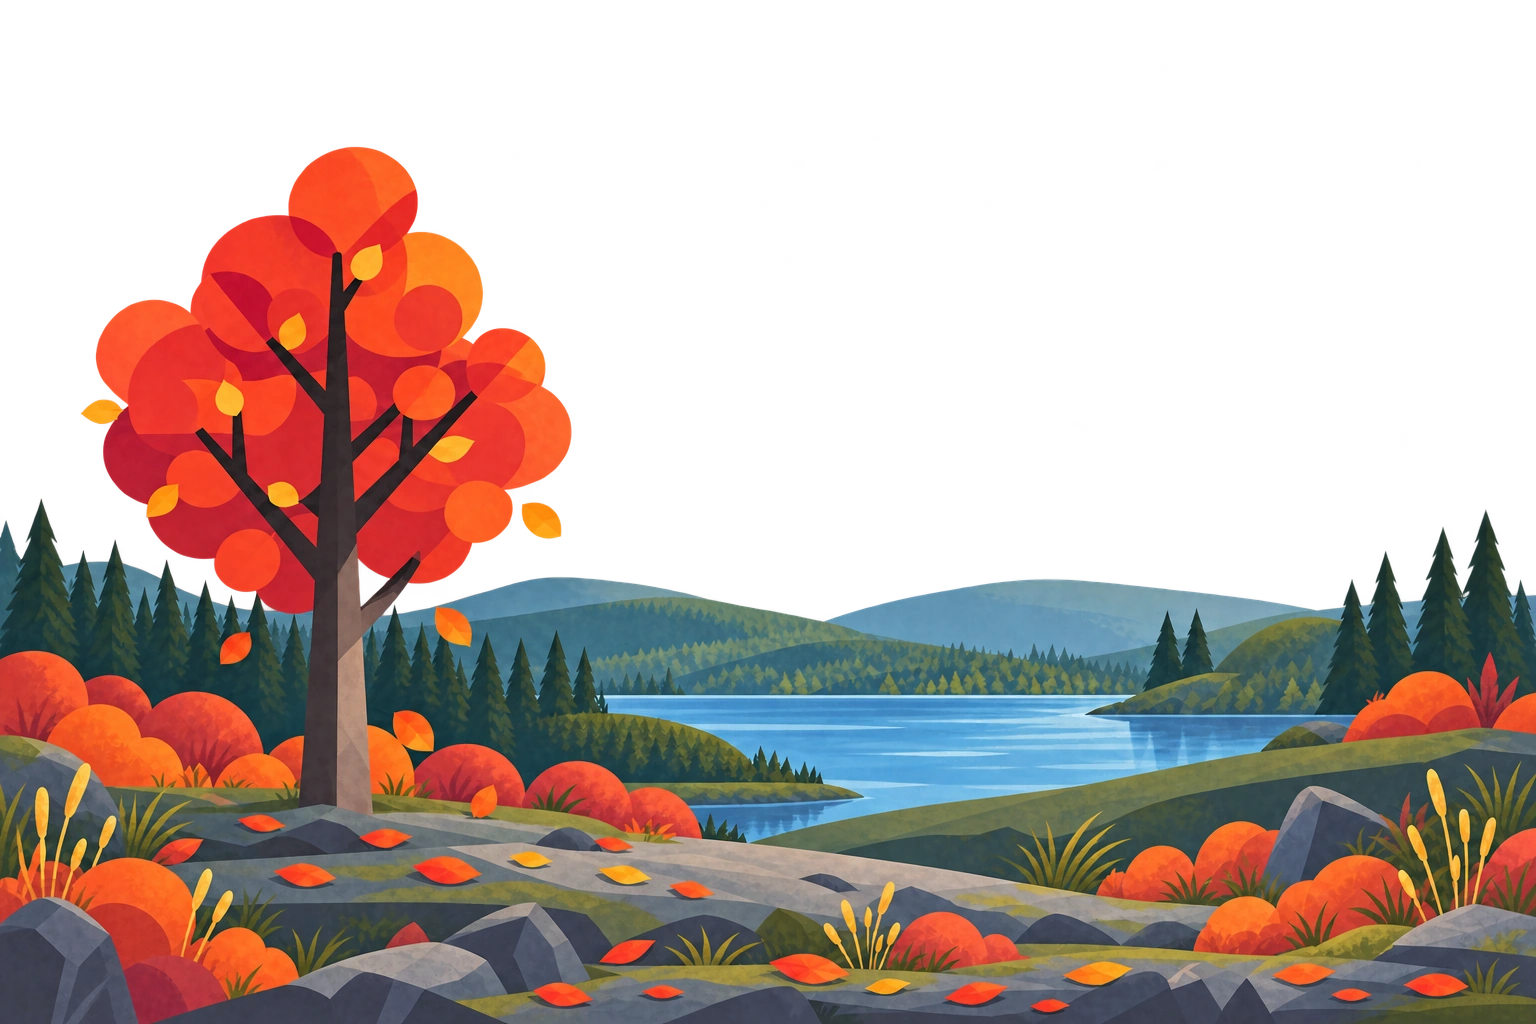
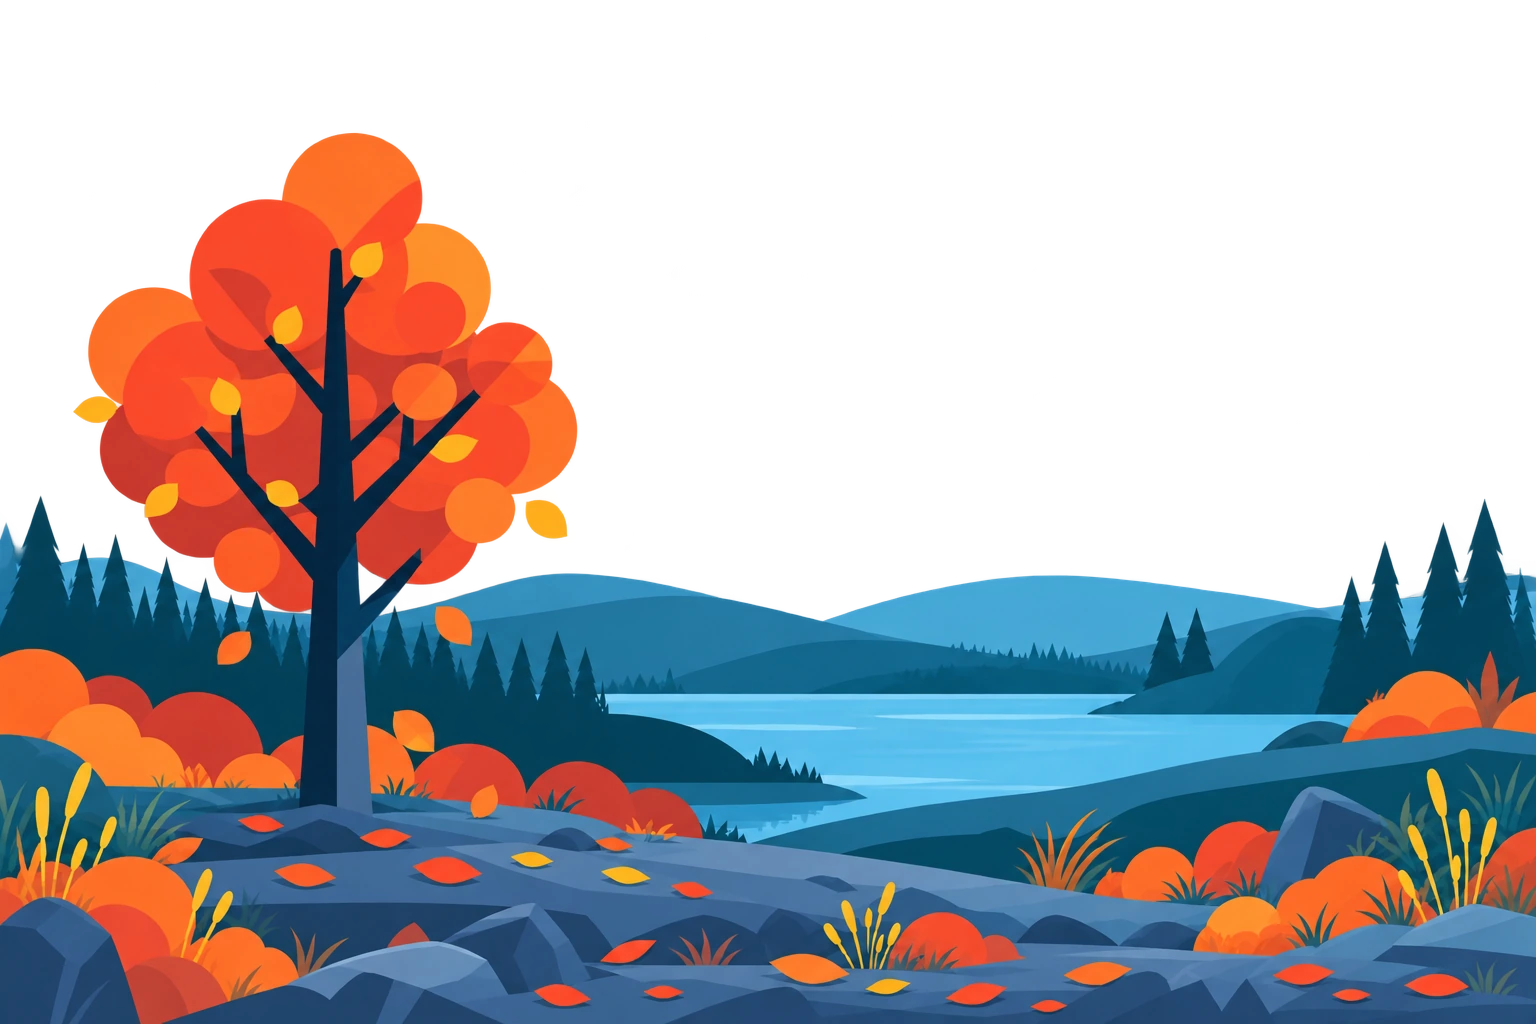
Väder: enhetliga årstider med formgivna blommor och blad (ht-v242)
Nio landskap följer den godkända höstnattsreferensen. Förfina vår/sommar dag/natt med kronblad, knoppar och stiliserade växter. Ta bort de runda irislagren som gav uggleuttryck.

Agent: Codex

diff --git a/verktyg/emu/vader-bildstilar.js b/verktyg/emu/vader-bildstilar.js
@@ -36,7 +36,6 @@ module.exports=async(pg,h)=>{
      check(arcPos(arc)===arcPos(baseArc),'Sol/månbana skiljer sig');
      check(fig.includes('fx-rain')===/drizzle|rain|sleet/.test(sc.type),'Regnlager '+sym);check(fig.includes('fx-snow')===/snow|sleet/.test(sc.type),'Snölager '+sym);check(fig.includes('fx-bolt')===sc.thunder,'Åsklager '+sym);
      check((fig.includes('dog lie'))===sc.sleep,'Sovläge '+sym);check((skyCount(sky,'.st')>0)===(sc.dark&&sc.sky!=='fog'),'Stjärnor/dimma '+sym);
-     if(art==='geo'){const frame=geoDogFrame(sc.fit,sc.sky,sc.sleep),eyes=(fig.match(/class="geo-eye"/g)||[]).length;check(eyes===(frame%2===0&&frame!==2?4:0),'Bruna iris/svarta pupiller i rätt pose '+frame);check(!eyes||fig.includes('fill="#A76B37"')&&fig.includes('fill="#10121B"'),'Ögonfärg')}
      if(i%9===0){xml(bd);xml(fig)}
     }
    })
@@ -53,7 +52,7 @@ module.exports=async(pg,h)=>{
  // Granska riktiga kort i representativa väder och årstider; endast emulatorns modell/klocka ersätts.
  await read('window.__artSaved={Date:window.Date,model:wxModel,W:wxModel(),art:WXART,snow:lsGet("snow"),variant:S.wxVar}');
  try{
-  const scenes=[['ogon','2026-07-15T12:00:00+02:00','partlycloudy',18,0,50,0],['hostnatt','2026-10-31T19:49:00+01:00','cloudy',6,0,100,0],['sommar','2026-07-15T12:00:00+02:00','clearsky',26,0,0,0],['regn','2026-05-15T12:00:00+02:00','heavyrainandthunder',9,5,100,0],['sno','2026-01-15T12:00:00+01:00','heavysnow',-5,4,95,15],['dimma','2026-11-15T09:00:00+01:00','fog',2,0,100,0],['stjarnor','2026-08-15T23:00:00+02:00','clearsky',14,0,0,0]];
+  const scenes=[['var','2026-04-30T12:00:00+02:00','partlycloudy',15,0,40,0],['varnatt','2026-04-30T23:00:00+02:00','fair',12,0,18,0],['vinterbar','2026-01-15T12:00:00+01:00','partlycloudy',2,0,40,0],['ogon','2026-07-15T12:00:00+02:00','partlycloudy',18,0,50,0],['hostnatt','2026-10-31T19:49:00+01:00','cloudy',6,0,100,0],['sommar','2026-07-15T12:00:00+02:00','clearsky',26,0,0,0],['regn','2026-05-15T12:00:00+02:00','heavyrainandthunder',9,5,100,0],['sno','2026-01-15T12:00:00+01:00','heavysnow',-5,4,95,15],['dimma','2026-11-15T09:00:00+01:00','fog',2,0,100,0],['stjarnor','2026-08-15T23:00:00+02:00','clearsky',14,0,0,0]];
   for(const art of ['geo','soft'])for(const [name,date,sym,T,pr,cf,cm] of scenes){
    await read(`(()=>{const saved=window.__artSaved,now=new saved.Date('${date}').getTime();window.Date=class extends saved.Date{constructor(...a){super(...(a.length?a:[now]))}static now(){return now}};const W=saved.W,n={...W.now,s:'${sym}',T:${T},pr:${pr},cf:${cf},w:${name==='hostnatt'?0:pr?10:2},wd:${name==='hostnatt'?315:230}};wxModel=()=>({...W,now:n,hours:W.hours.map(x=>({...x,...n})),days:W.days.map(x=>({...x,min:${T},max:${T}}))});WXART='${art}';S.wxVar=null;lsSet('snow',JSON.stringify({at:now,cm:${cm}}));render()})()`);
    await h.idle(120);await pg.evaluate(()=>document.getAnimations().forEach(a=>{a.pause();a.currentTime=42000}));await pg.locator('.wx2').screenshot({path:path.join(h.OUT,'bildstil-'+art+'-'+name+'.png')});

diff --git a/app.js b/app.js
@@ -2847,10 +2847,8 @@ function geoBackdropSvg(sc){const id='geo'+(++FIG_N),ss=grassSeason(today()),T=t
  return'<svg class="bd art-geo geo-world" viewBox="0 0 600 400" preserveAspectRatio="none" data-season="'+ss+'" data-snow="'+snow+'" data-day="'+f(day)+'" aria-hidden="true"><defs>'+defs+'</defs>'+s+'</svg>'}
 function geoDogFrame(F,sky,lie){const start=F.rain?10:F.coat==='snow'?8:F.coat==='freezing'?12:F.coat==='cold'?6:sky==='fog'?14:F.coat==='mild'?4:F.shades?2:0;return start+(lie?1:0)}
 function geoDogSvg(D,o,id,pose){const F=o.fit||{},lie=pose==='lie',frame=geoDogFrame(F,o.sky,lie),row=Math.floor(frame/4),col=frame%4,dog=D.chest?1:0,x=col*313.5+dog*156.75,y=[88,374,675,950][row];
- // Iris/pupill ligger separat så att brunt förblir läsbart i små maskotar; inga öppna ögon i sov-/solglasögonrutor.
- const eyes={0:[[73.5,210],[128.5,208],[203.5,215],[259.5,219.5]],4:[[71.5,483.5],[128,483],[203,492.5],[256.5,497.5]],6:[[693,479],[748.5,478],[825.5,493.5],[879,497.5]],8:[[72.5,769],[128,769],[205,778.5],[260,786]],10:[[704.5,769],[760.5,769],[833,781.5],[884.5,789]],12:[[74.5,1051],[128,1051.5],[206.5,1059.5],[264.5,1063.5]],14:[[689.5,1060],[744.5,1059.5],[820,1068.5],[873.5,1074]]},eye=(eyes[frame]||[]).slice(dog*2,dog*2+2).map(([a,b])=>'<g class="geo-eye" transform="translate('+(a-x)+' '+(b-y)+')"><circle class="iris" r="8" fill="#A76B37" stroke="#382B27" stroke-width="1"/><circle class="pupil" r="4.4" fill="#10121B"/><circle cx="-2" cy="-2.5" r="1.5" fill="#FFF7E6"/></g>').join('');
  const defs=geoAlpha(id+'alpha')+'<clipPath id="'+id+'crop"><rect width="156.75" height="256"/></clipPath>'+(o.night?'<filter id="'+id+'night" color-interpolation-filters="sRGB"><feColorMatrix type="matrix" values=".84 .03 .03 0 0  .01 .85 .04 0 0  .03 .03 .9 0 .01  0 0 0 1 0"/></filter>':'');
- let h='<defs>'+defs+'</defs><g transform="translate(14.08 -25) scale(.5859375)"'+(o.night?' filter="url(#'+id+'night)"':'')+'><g clip-path="url(#'+id+'crop)"><image class="geo-sprite" data-frame="'+frame+'" href="'+geoAsset('mascots-v2')+'" x="'+(-x)+'" y="'+(-y)+'" width="1254" height="1254" filter="url(#'+id+'alpha)"/>'+eye+'</g></g>';
+ let h='<defs>'+defs+'</defs><g transform="translate(14.08 -25) scale(.5859375)"'+(o.night?' filter="url(#'+id+'night)"':'')+'><g clip-path="url(#'+id+'crop)"><image class="geo-sprite" data-frame="'+frame+'" href="'+geoAsset('mascots-v2')+'" x="'+(-x)+'" y="'+(-y)+'" width="1254" height="1254" filter="url(#'+id+'alpha)"/></g></g>';
  if(F.breath&&!lie)h+='<g class="fig-breath" fill="#E8F0FA"><circle cx="75" cy="68" r="3"/><circle cx="82" cy="63" r="2"/></g>';
  if(F.snowy)h+='<path d="M37 93 Q44 90 49 93 M73 92 Q79 90 85 93" fill="none" stroke="#F2F7FF" stroke-width="1.5" stroke-linecap="round"/>';
  return(lie?'':'<g transform="translate(15 30.85) scale(.75)">')+'<g class="fig-body dog'+(lie?' lie':'')+'" data-raster="1">'+h+'</g>'+(lie?'':'</g>')}

diff --git a/docs/design/vader-bildlager.md b/docs/design/vader-bildlager.md
@@ -4,7 +4,7 @@ Geometrisk använder nu riktiga rasterlager. De tidigare förenklade SVG-version
 
 ## Filer och komposition
 
-- bilder/vader/: tio transparenta landskap (1536 × 1024) och mascots-v2.webp (1254 × 1254). Dessutom clouds-v1.webp med fyra molnformer. Totalt cirka 3,4 MB. Alla filer och kontrollsummor finns i vader-bildlager.json.
+- bilder/vader/: tio transparenta landskap (1536 × 1024) och mascots-v2.webp (1254 × 1254). Dessutom clouds-v1.webp med fyra molnformer. Totalt cirka 2,0 MB. Alla filer och kontrollsummor finns i vader-bildlager.json.
 - Varianter: vår, sommar, höst, snöfri vinter och snö, var och en för dag/natt. Motivets huvudsakliga koordinater följer samma referens; bilderna är manuellt granskade illustrationer, inte exakt pixelregistrerade fotografier.
 - geoSeasonBlend följer kalendern och treeStage:s lövtäthet. geoDayMix använder den verkliga solhöjden. Två registrerade lager övertonas vid mellanlägen. Höstbilden ligger ensam vid referensdatumet 31 oktober.
 - Snö väljs separat från årstid via snowLevel/snowDepth: ingen snö, fläckar (mask), helt täcke och djup snö med en liten förgrundsdriva. Frost och regnringar läggs ovanpå bilden.
@@ -21,13 +21,23 @@ Landskapets grundprompt:
 
 Use case: background-extraction / precise-object-edit. Make a production raster landscape layer for the weather illustration shown INSIDE the attached screenshot. The screenshot is the authoritative art reference, not merely a moodboard. Preserve the sophisticated finished illustrated appearance: rich layered indigo scenery, curved shore banks, angular rocks, subtle gradients, coral-orange overlapping rounded foliage, organic precisely designed plants. Do NOT simplify into primitive circles, stick trees or generic vector placeholders. Deliver a single landscape image with aspect ratio 3:2, around 1536 by 1024. Extract and faithfully reconstruct ONLY the landscape and red autumn tree from the reference, reframe this artwork to fill a 3:2 landscape canvas. Keep the red tree on left, trunk planted around x20%, y85%; red crown top about y12%, extending up into the transparent sky. Far hills and pine forests behind a winding blue lake should start around y60%, with a detailed foreground of bushes, reeds, red fallen leaves and angular stones filling the bottom 25%. Keep the full-width continuous foreground and all the art's compositional depth, including small warm lights reflected in the distant lake. Upper sky and gaps around the tree must be genuinely TRANSPARENT alpha, not navy paint. REMOVE ALL interface text, numbers, borders, rounded card edges, phone margins, sun, moon, clouds, stars, dotted arc, both dogs and their beds. Fill the scenery naturally where dogs were removed; the lower right is just clear ground where dogs can be composited later. No text or labels anywhere. This is the autumn NIGHT landscape layer. Preserve the original rich navy/indigo and luminous coral/orange palette, not photorealistic, no outlines, no cartoon simplification. No shadow cast outside the canvas, no checkerboard painted into the image. The image will be used directly as artwork in the app, so polished reference-matching quality is essential.
 
-Prompten för årstidsvarianterna bevarar exakt komposition, stam, strandlinjer, stenar, sjöperspektiv och format. Endast årstid/ljus ändras: vår med ljusgrönt/blomning och påskliljor, sommar med fylligt grönt/vita blommor, höst med korallrött/orange, snöfri vinter med kalt träd och vilande mark, samt snöklätt vinterlandskap. Nattvarianterna utgår från respektive dagsbild och ändrar bara ljuset till återhållsam indigo/blålila. Alla prompter förbjuder himmelsfärg, moln, sol, måne, stjärnor, väderpartiklar, hundar och gränssnitt i miljölagret.
+Efter Henriks stilgranskning ersattes nio av tio landskap. Den godkända autumn-night.webp behålls byte för byte och används som gemensam stilreferens för varje ny variant. Tidigare sommar/vår/vinter hade små målade lövkluster och realistiska detaljer; de är borttagna. Samtliga årstider använder nu stora överlappande cirkelskivor, enkel kantig stam, triangelskog, släta kullar och polygonstenar. Se manifestets källnamn för de nya PNG-originalen.
+
+Slutligt promptset (inbyggda image_gen, transparent bakgrund):
+
+Use case: lighting-weather. Edit target: attached approved transparent autumn-night weather-app landscape. Preserve composition, camera, horizon, lake shorelines, main trunk branches, circular bush silhouettes, simple triangle forests, angular polygon rocks, individual reeds and large clean color planes. Change ONLY season and daylight palette as specified. Every foliage mass must be a few LARGE overlapping circular geometric discs, never clusters of individual leaves. Every hill is a smooth solid silhouette. Crisp edges, 2-3 flat color planes per object, restrained smooth shading only. No painterly brushwork, grain, texture, realistic foliage or illustrative microdetail. Truly TRANSPARENT upper sky and gaps. No sun, moon, clouds, stars, particles, dogs, beds, text or UI. Full continuous foreground. Landscape 3:2 1536x1024.
+
+Varianttillägg: vår dag = mint/ljusgröna skivor, få rosa blomskivor, teal mark/cyan sjö; sommar dag = jade/teal/lime-skivor, få geometriska vita blommor; höst dag = behåll korall/orange skivor, blå/teal mark/cyan sjö; snöfri vinter dag = avlövad exakt kantig stam, mauve/slate buskar och bar blågrå mark, ingen snö eller istäckt sjö; snö dag = avlövad stam och enkla vita/isblå snöhättor, släta snöplan. Nattvarianterna följer samma geometriska former med indigo mark/sjö, små varma husljus/reflektioner och återhållsamma teal vår-/sommarfärger respektive lila bar vinter och blå snö. Inga väderpartiklar bakas in.
+
+
+Efter fortsatt granskning förfinades vår och sommar (dag/natt) med detaljer som följer samma grafiska formspråk. Vårens rosa cirkelmarkörer ersattes av fembladiga körsbärsblommor med ståndare, gula blomkärnor, sidovända blommor, knoppar och påskliljor med spetsiga kronblad/trumpet. Sommarens utvalda växter har mandelformade blad, enkla mittnerver, ormbunkar och prästkragar. Detaljerna använder tydliga silhuetter och 2–3 färgplan, aldrig målad lövtextur. Väderlagret och motivets positioner bevaras. Fullständiga slutprompter finns i `vader-botanik-prompter.json`.
+
 
 Maskoternas grundprompt:
 
 Production animation asset sheet of the TWO French bulldog mascots in the attached reference image. Match their beautifully illustrated natural bulldog appearance, smooth detailed sculpted color planes, expressive small faces, bat ears, fawn dog with black muzzle, charcoal dog with WHITE chest/chin patch. They must look like the small cute real dogs in the reference, NOT simplified humanoid mascots, not big smiling cartoon heads. Deliver a STRICT 4-column by 4-row sheet of 16 equal SQUARE tiles, truly TRANSPARENT background. No grid lines, labels, shadows outside figures or text. Each tile has EXACTLY TWO dogs in fixed positions: fawn dog entirely in left half, charcoal dog entirely in right half. Keep each dog and any bed entirely within its half-cell with at least 8% safe padding. All tiles use the SAME scale, frontal slightly three-quarter view and ground baseline at 80% cell height. Figures occupy the lower middle area of each tile. In sleeping tiles, both dogs lie curled down with heads on front paws in oval beds, fawn in burgundy bed, charcoal in blue bed, looking exactly like the reference. In awake tiles, dogs sit compactly with short legs and proper bulldog proportions. Tile order is left to right then top to bottom: bare awake/asleep, sunglasses awake/asleep; light jacket awake/asleep, warm jacket/scarf awake/asleep; snow jacket/cap awake/asleep, mustard raincoat awake/asleep; thick winter coat/scarf/cap awake/asleep, muted sage/slate fog jackets awake/asleep. Layout must have exactly four equal columns and four equal rows. Avoid bleeding across tile boundaries. Keep dogs as reference-quality painted graphic characters with subtle shading and face wrinkles, not crude geometry. Lighting neutral soft daylight so it can be tinted by app. No environment, scenery, weather particles or Z letters.
 
-Maskotatlasen förfinades mot referensen till enklare färgplan, korta breda nosar och tydlig vit haka/bröstteckning på den mörka hunden. En separat bildredigering gav bruna iris, svarta pupiller och tunna slutna sovögon. Vakna ögon kompletteras av små SVG-lager med varmbrun iris (#A76B37), svart pupill (#10121B) och en ljusreflex, för läsbarhet i appstorlek. Positionerna följer varje bildruta; sovande hundar och solglasögon får inga öppna ögon.
+Maskotatlasen har korta breda nosar, vit haka/bröstteckning på den mörka hunden, små mörkbruna ögon med svarta pupiller och tunna slutna sovögon. De tidigare separata runda SVG-irisarna togs bort efter Henriks granskning: de gav ett ugglelikt uttryck. Ansiktets ursprungliga ögon används direkt ur bilden.
 
 Molnatlasen skapades som fyra transparenta gråskalelager med breda rundade moln, rak lång bas och kort understreck. SVG färgsätter gråskalan efter befintlig dag/natt-, moln- och åskmodell. Molntäcke, antal, placering och vindrörelse använder samma väderlogik som originalet.
 

diff --git a/OVERLAMNING.md b/OVERLAMNING.md
@@ -2,15 +2,14 @@
 
 Claude och Codex: läs AGENTS.md och denna fil. Repot är gemensamt minne; läs relevant kod/PR vid behov.
 
-## För granskning: riktiga bildlager för Geometrisk · ht-v242
+## För granskning: enhetlig geometrisk väderstil · ht-v242
 
-- Codex, `codex/vader-bildstilar`, PR #57. Henrik avvisade båda SVG-försöken och bad välja bästa vägen till den visade bilden. Geometrisk använder nu genererade bildlager direkt, inte nya handritade approximationer. Referens: `docs/design/vader-geometrisk-referens.jpeg`.
-- `bilder/vader/`: tio transparenta landskap (vår/sommar/höst/snöfri vinter/snö × dag/natt) en maskotatlas med 16 kläd-/sovlägen och fyra matchande molnformer. WebP cirka 3,4 MB, förladdas av service workern. Promptunderlag/manifest/klippkoordinater: `docs/design/vader-bildlager.md` och `.json`.
-- `geoBackdropSvg` komponerar rasterlagren med kalender/lövtäthet och faktisk solhöjd. Snöminne/frost/fläckar/djup snö styrs separat. Moln, sol/måne, stjärnor, regn/snö/åska/dimma och fallande löv är fortsatt dynamiska lager. `geoDogSvg` väljer verkliga bildrutor; andning sker i eget GPU-lager.
-- Hundarna är omgjorda med enklare färgplan mot bildreferensen, bruna iris/svarta pupiller/ljusreflex i alla vakna klädlägen, slutna sovögon och tydlig vit haka/bröstteckning. Ögonen har små separata SVG-detaljer för läsbarhet i appstorlek. Molnen är rasterlager färgsatta av samma dag/natt-/vädermodell.
-- Original är fortsatt standard, Förfinad oförändrad. Alla tre finns under Inställningar → Översikt och väder → Bildstil (`ht.wxart`). Geometrisk har responsiv 3:2-scen och max 680 px kortbredd.
-- Lokalt grönt: 1 968 scenkombinationer i telefon och UI4 mörk vägg, alla tolv filer avkodade, menyval/omstart och alla-flikar telefon/vägg. GPU: 47 animationer till 0 i SVG, 9–24 bildpunkters skillnad. Faktiska höstnatt/vakna ögon/sommar/regn/snö-bilder granskade. Syntax/diff, manifest/kontrollsummor och offline-lista gröna.
-- Main är ht-v241 (`a983fe86eaa04526e8a97e03804e472bd2590fa0`). Förberedd release ht-v242/app.js?v=232, ännu inte publicerad. Läs senaste CI i PR #57 inför publicering; inväntar Henrik/Pusha. Inga server- eller hushållsdata ändrade.
+- Codex, `codex/vader-bildstilar`, PR #57. Henrik godkände sista höstnattbildens stil men avvisade de målade årstiderna och de pålagda runda irisarna (”uggla”). Använd `bilder/vader/autumn-night.webp` som auktoritativ stilgrund; den är oförändrad.
+- Nio övriga landskap omgjorda direkt från samma höstnattsreferens: stora cirkelformade lövmassor, enkla färgplan, triangelskog/kantiga stenar. Vår/sommar/höst/snöfri vinter/snö × dag/natt, tolv WebP-filer totalt cirka 2,0 MB. Vår/sommar dag/natt har därefter förfinats med formgivna körsbärsblommor, påskliljor/prästkragar, knoppar, bladnerver och ormbunkar; Henrik vill ha detaljer i samma grafiska stil, inte bara cirklar. Inga målade småbladstexturer. Manifest/promptset: `docs/design/vader-bildlager.md`, `.json` och `vader-botanik-prompter.json`.
+- De separata runda SVG-ögonen är borttagna. Hundarna använder atlasens egna små mörkbruna ögon/svarta pupiller och slutna sovögon. Den accepterade sovande nattbilden och molnen behålls.
+- Kalender/lövtäthet/solhöjd, snöminne/frost/snöfläckar/djup snö, sol/måne/moln/stjärnor/nederbörd/dimma/löv och GPU-animationer är samma modell. Original är fortsatt standard, Förfinad oförändrad. Tre val under Inställningar → Översikt och väder → Bildstil (`ht.wxart`).
+- Verifiering för denna revision: 1 968 scenkombinationer i både telefon/UI4 mörk vägg, tolv avkodade filer, menyval/omstart och faktiska årstidsvyer gröna. GPU-test: 47 animationer till 0 i SVG, 40–66 bildpunkters skillnad (gräns 150). Manifest/kontrollsummor/offline och syntax/diff gröna. Inga server-/hushållsdata ändrade.
+- Main är ht-v241 (`a983fe86eaa04526e8a97e03804e472bd2590fa0`). Förberedd ht-v242/app.js?v=232. Inte publicerat; inväntar Henrik/Pusha. Läs aktuell CI i PR #57 inför publicering.
 
 Tidigare publiceringar (PR #43–56) finns i git-historiken. PR #56 är sammanslagen; stabil solbana och B24/portionsantal finns på main.
 
